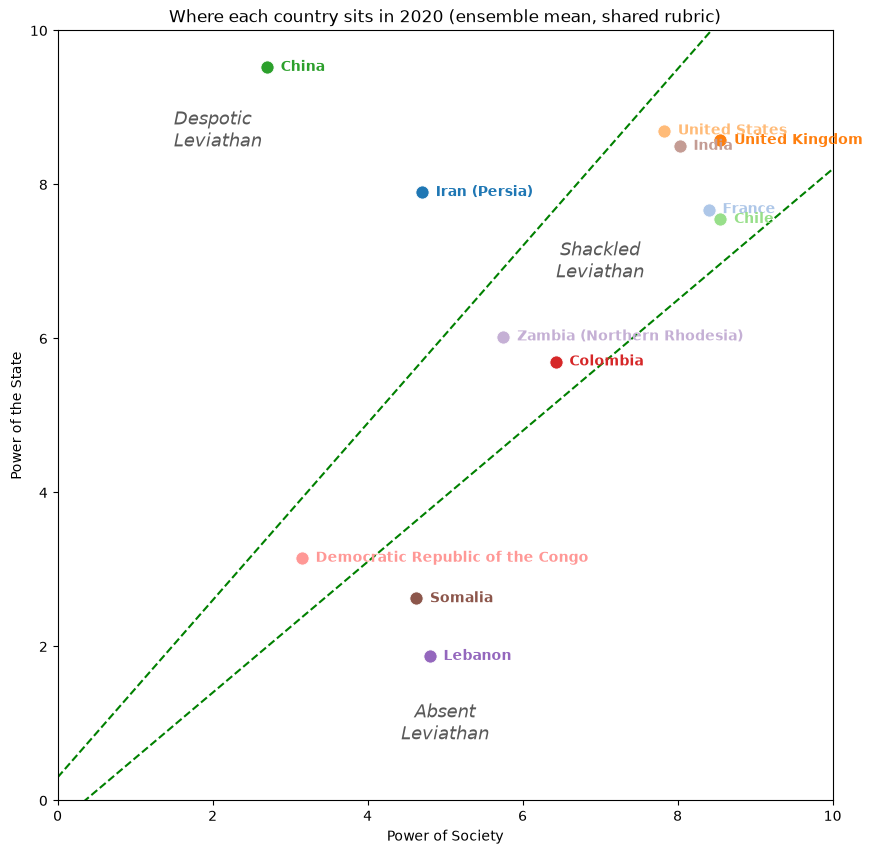
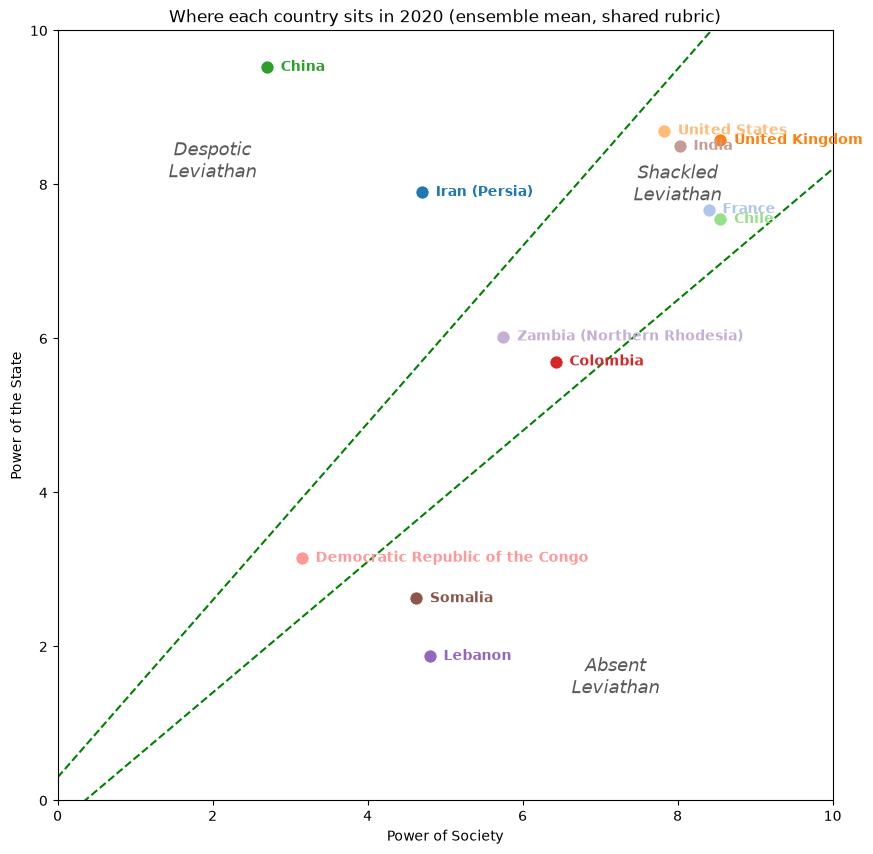
Combined atlas: place Leviathan labels at the same positions as the schematic
Claude-Session: https://claude.ai/code/session_01SrV3E8eRghKw3ovB913eBm

diff --git a/paper/experiments/atlas_combined.py b/paper/experiments/atlas_combined.py
@@ -24,13 +24,13 @@ from run_experiments import COUNTRIES, RUNS_DIR, slug
 
 LO, HI = 0.0, 10.0  # fixed rubric quadrant, origin-anchored like the book's figure
 
-# Region labels placed like the book's figure: Despotic above the corridor,
-# Shackled inside it, Paper a weak state near the origin, Absent below it.
-# (x, y) in society/state units; ha/va chosen so text sits inside its zone.
+# Region labels at the same positions as the conceptual schematic
+# (corridor_schematic.py), so the two figures line up: Despotic above the
+# corridor, Shackled inside it, Absent in the weak-state region below.
 REGIONS = [
-    ("Despotic\nLeviathan", 1.5, 8.7, "left"),
-    ("Shackled\nLeviathan", 7.0, 7.0, "center"),  # in the corridor by the US/UK cluster
-    ("Absent\nLeviathan", 5.0, 1.0, "center"),    # weak-state region; Paper/Absent split is de jure, not positional (see text)
+    ("Despotic\nLeviathan", 2.0, 8.3, "center"),
+    ("Shackled\nLeviathan", 8.0, 8.0, "center"),
+    ("Absent\nLeviathan", 7.2, 1.6, "center"),
 ]
 
 